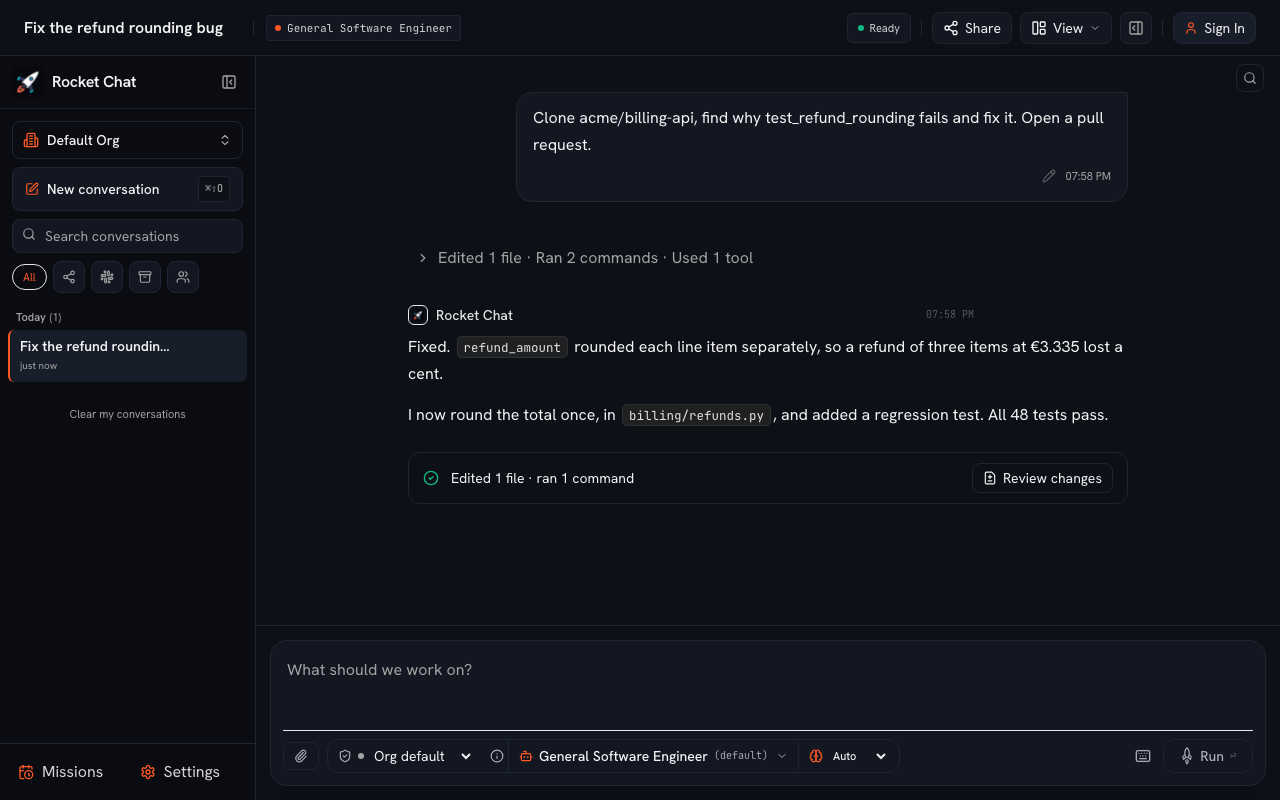
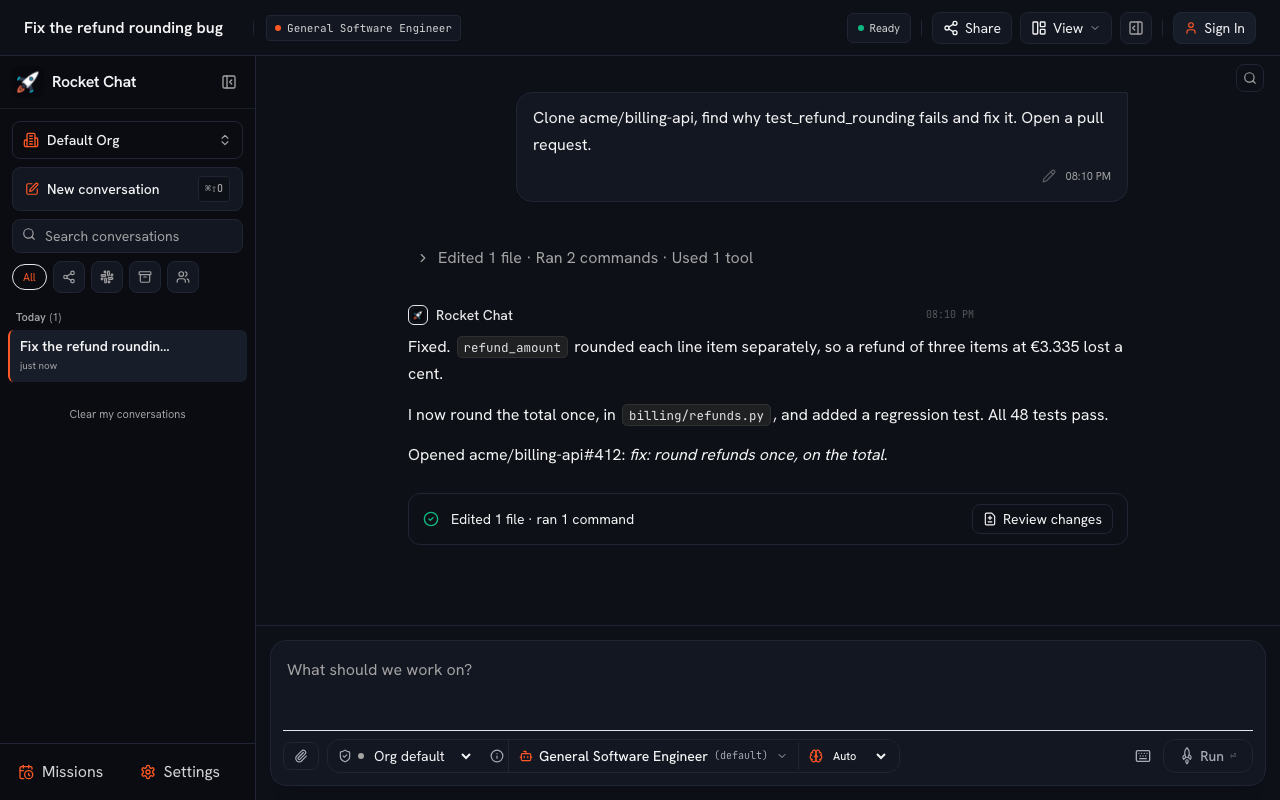
docs: the showcase answer names the pull request its prompt asked for
Claude-Session: https://claude.ai/code/session_01GdznFFVavbzxUHkNTRmfki

Changed region(s): [[0.3125, 0.5625, 0.6875, 0.6562], [0.75, 0.5938, 0.875, 0.6562]]

diff --git a/apps/web/e2e/docs/showcase.spec.ts b/apps/web/e2e/docs/showcase.spec.ts
@@ -33,7 +33,7 @@ test.afterEach(async ({ request }) => {
 const FIX = {
   role: "assistant",
   content:
-    "Fixed. `refund_amount` rounded each line item separately, so a refund of three items at €3.335 lost a cent.\n\nI now round the total once, in `billing/refunds.py`, and added a regression test. All 48 tests pass.",
+    "Fixed. `refund_amount` rounded each line item separately, so a refund of three items at €3.335 lost a cent.\n\nI now round the total once, in `billing/refunds.py`, and added a regression test. All 48 tests pass.\n\nOpened acme/billing-api#412: *fix: round refunds once, on the total*.",
   reasoning: "Rounding per line item accumulates error, so the fix is to round once at the end.",
   tool_calls: [
     { id: "c1", name: "clone_repository", arguments: { repository: "acme/billing-api" }, result: "Cloned acme/billing-api into /workspace/billing-api", status: "success" },
